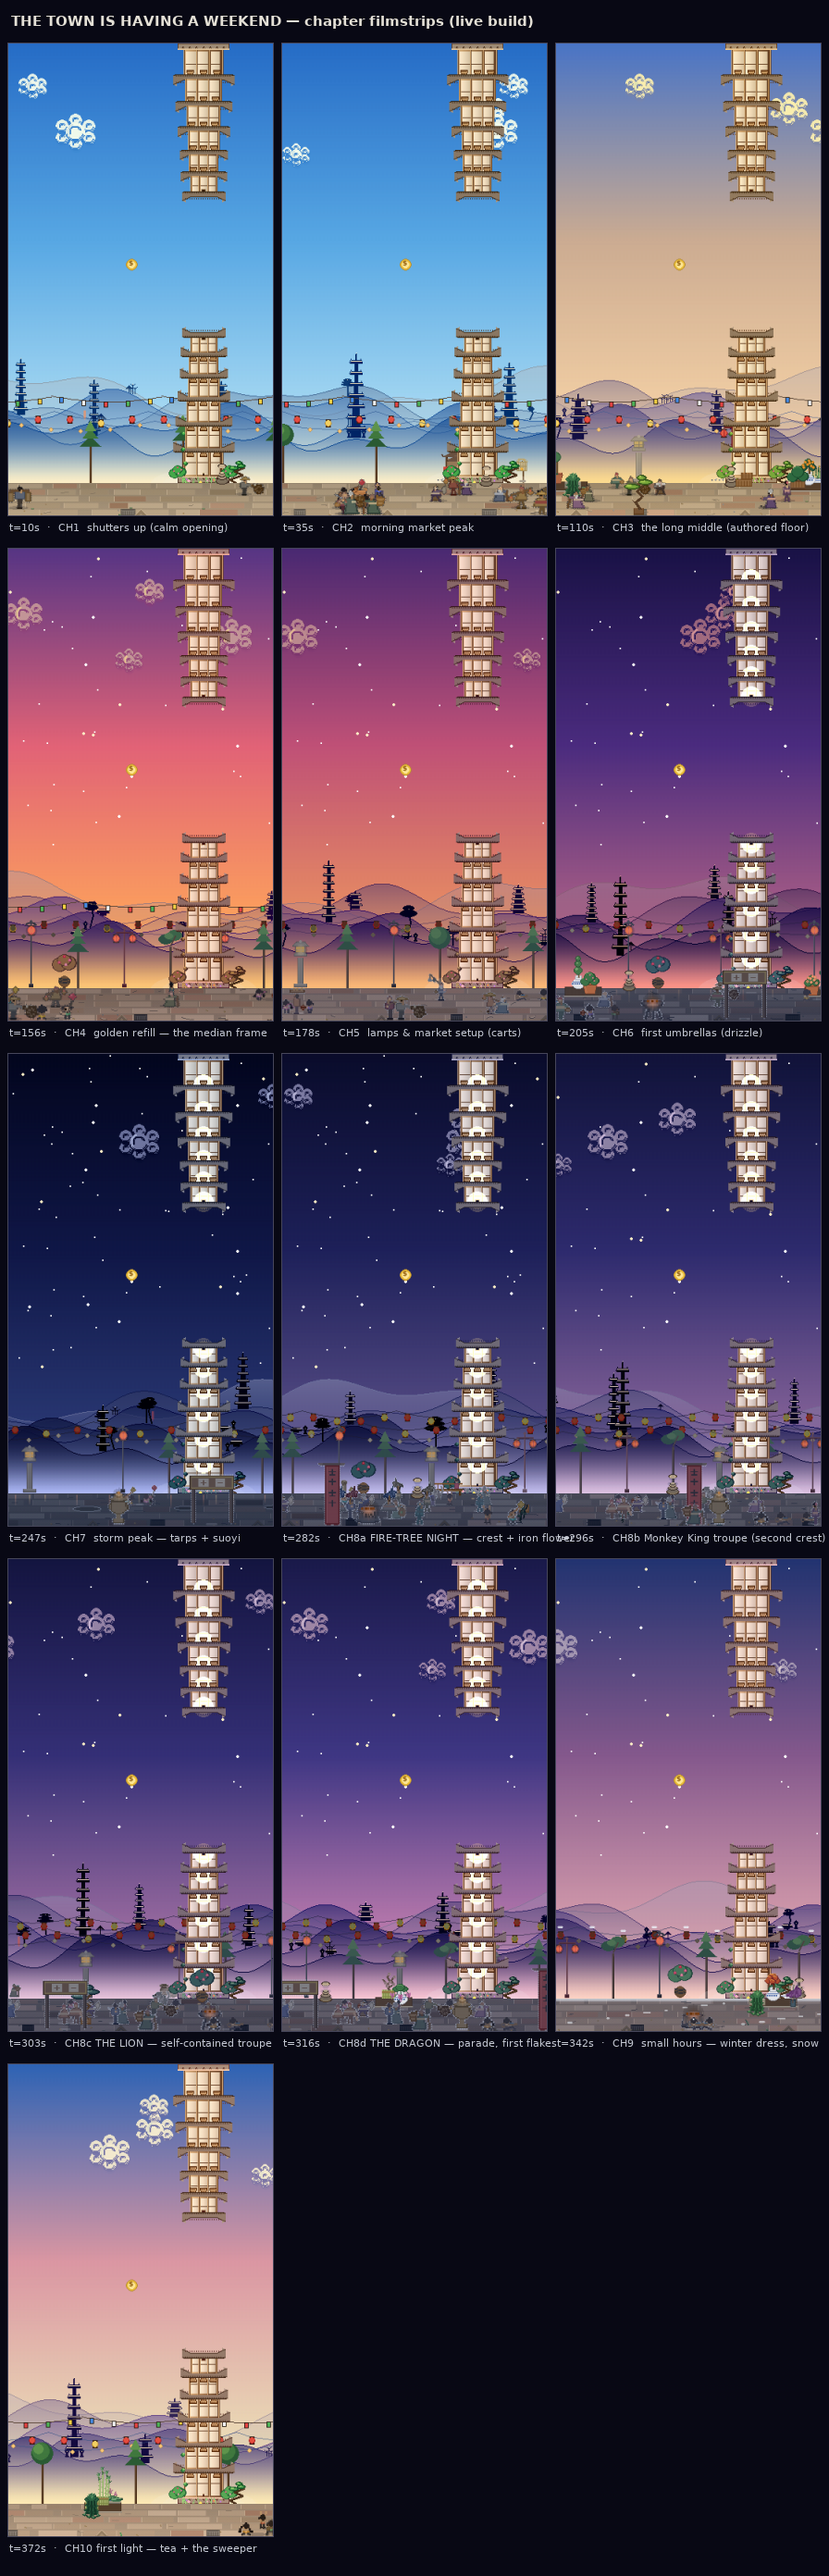
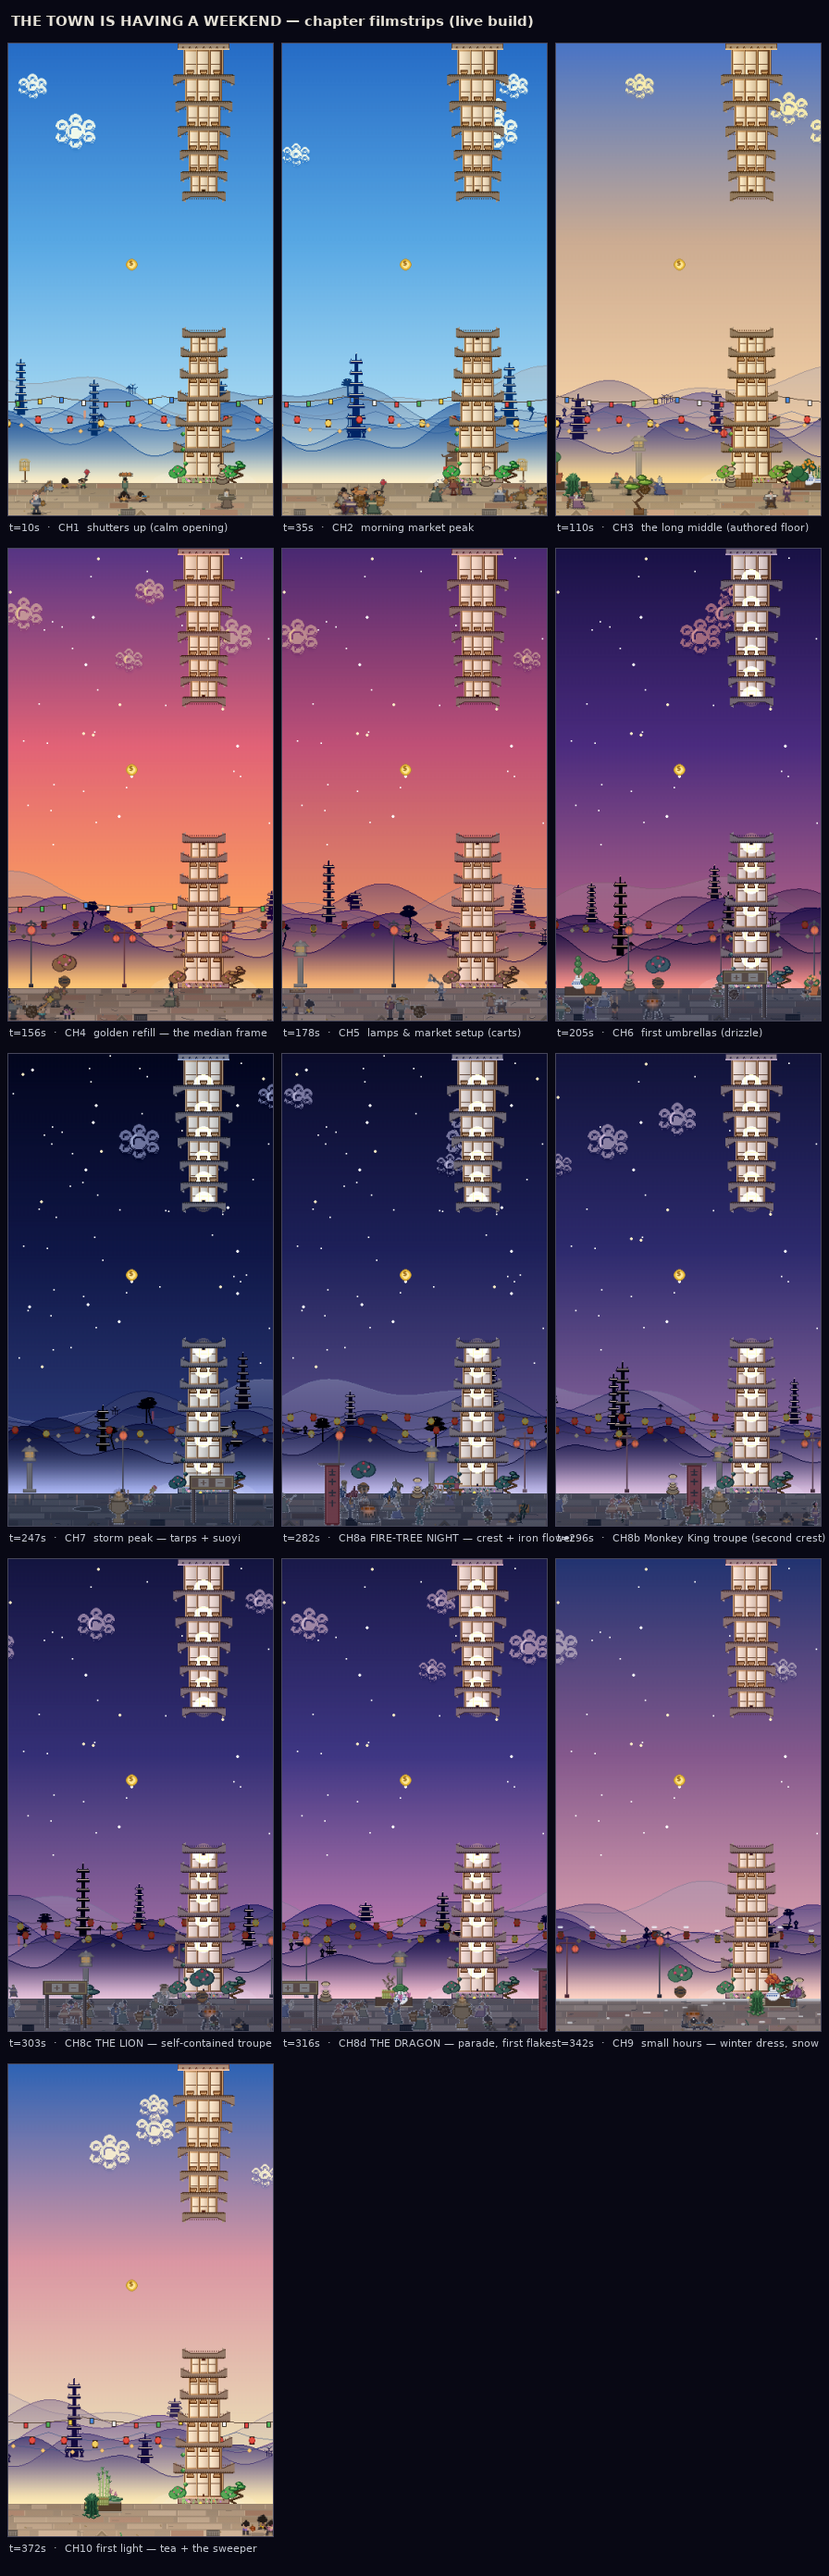
Remove the street-tree design from the sidewalk
The bare-trunk-and-canopy street trees (three foliage forms, planted on
the lamp lattice) don't match the rest of the game's visual style. Drops
_street_tree() and its call site entirely, no replacement. Untouched:
plant_scheme() (still drives the planting beds and the near-lane pine
density gate) and the planting-bed system itself, which are separate,
older-style features.

Verified via headless render across the full day/night cycle including
the festival window (no crash from the removed function), full pytest
suite green, and frame budget improved (9.55ms -> 8.00ms worst case).

diff --git a/game/foreground_promenade.py b/game/foreground_promenade.py
@@ -1020,24 +1020,6 @@ def _ground_furniture(surf, w, scroll, pal, fd=1.0):
             _enq_sunk((_mix32(k * 0x85EBCA77) >> 5) % 9, TB_FIXTURE,
                       lambda s, sx=sx: sp._draw_cairn(s, sx, pal, scale=1.2))
     sp._latch_prune(('furn', 12))
-    # THE TREE LINE — the town's planned street planting. Both lamp rows run
-    # the 251 lattice at even offsets (x0 18 and 143 → gaps of 125/126 px), and
-    # EVERY gap holds a tree slot (x0 80 and 206, ≥62 px from every lamp
-    # forever) — lamp–tree–lamp–tree with no treeless gap, the rhythm real
-    # streets plant. (The gold row's old 253 period drifted through every
-    # offset and eventually grew a tree out of a lamp post.) Per-run,
-    # per-block plan: one species + height per block (uniform rows), a cadence
-    # per block, and rare deliberately unplanted stretches. Pure in (k, run
-    # seed) and phase-free — trees don't move at dusk. The second offset's
-    # slot is the tighter one, so it plants the slim conifer form.
-    for x0, slim in ((80, False), (206, True)):
-        for sx, k in sp._world_xs(scroll, w, 251, x0=x0):
-            cad, salt, _gdn = _wk.plant_scheme(k * 251 + x0)
-            if not cad or (k % cad):
-                continue
-            _zbuf.enqueue(fy, TB_STRUCTURE,
-                          lambda s, sx=sx, salt=salt, slim=slim:
-                          _street_tree(s, sx, pal, salt, slim=slim))
     # PLANTING BEDS — only on the blocks the plan marks as garden stretches,
     # so a bed reads as a kept front-garden rather than a random pot drop. The
     # bed's soil rectangle + stone edging draw first (back line, structure
@@ -1540,41 +1522,6 @@ def _grn_pick(pool, k, salt):
     if n > 1 and (_mix32(((k - 1) * 0x9E3779B1) ^ (salt * 0x85EBCA77)) % n) == i:
         i = (i + 1 + (h >> 8) % (n - 1)) % n
     return pool[i]
-
-
-def _street_tree(surf, sx, pal, salt, slim=False):
-    """One planted street tree — the tree line's own silhouette. The greenery
-    pool's tallest pots top out ~52 px, which read as shrubs beside the ~90 px
-    lamp posts; a street tree needs a bare trunk and a canopy at lantern
-    height for lamp–tree–lamp to read as a rhythm. ONE form + height per
-    block (`salt`), because uniform rows are what says 'planted'. `slim`
-    forces the narrow conifer form for the tighter lamp gap."""
-    night = _nightf(pal)
-    h = _mix32(salt * 0x9E3779B1)
-    form = 1 if slim else h % 3
-    top = 506 + (h >> 4) % 13              # canopy top y ≈ 506..518 (±6 / block)
-    trunk = _retint_person((96, 68, 44), night)
-    fol_d = _retint_person((44, 92, 54), night)
-    fol_m = _retint_person((66, 122, 64), night)
-    fol_l = _retint_person((96, 150, 78), night)
-    by = GROUND_Y - 1
-    pygame.draw.line(surf, trunk, (sx, by), (sx, top + 24), 3)
-    pygame.draw.line(surf, _shade(trunk, -18), (sx + 1, by), (sx + 1, top + 28), 1)
-    if form == 0:            # round crown
-        pygame.draw.circle(surf, fol_d, (sx, top + 15), 15)
-        pygame.draw.circle(surf, fol_m, (sx - 2, top + 12), 12)
-        pygame.draw.circle(surf, fol_l, (sx - 5, top + 9), 7)
-    elif form == 1:          # tiered conifer
-        for i, (tw, yy) in enumerate(((28, 30), (21, 19), (14, 9))):
-            c = (fol_d, fol_m, fol_l)[i]
-            pygame.draw.polygon(surf, c, [(sx - tw // 2, top + yy),
-                                          (sx + tw // 2, top + yy),
-                                          (sx, top + yy - 13)])
-    else:                    # twin-lobe scholar tree
-        pygame.draw.ellipse(surf, fol_d, (sx - 16, top + 7, 20, 14))
-        pygame.draw.ellipse(surf, fol_m, (sx - 4, top + 1, 20, 15))
-        pygame.draw.ellipse(surf, fol_l, (sx - 8, top + 5, 12, 9))
-        pygame.draw.line(surf, trunk, (sx, top + 22), (sx + 6, top + 9), 2)
 
 
 def _grn_at(surf, x, idx, dy):
